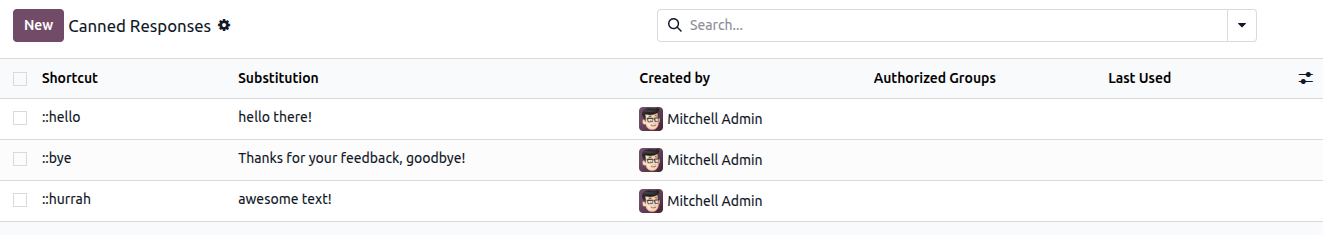
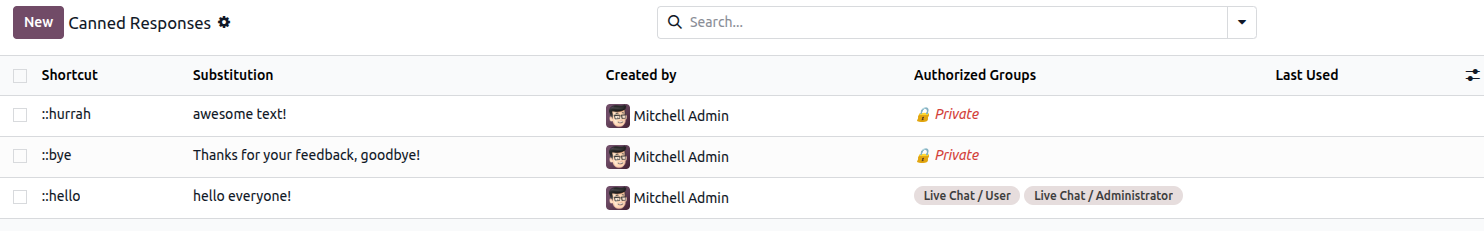
[IMP] Discuss: Canned responses update
Previously, the documentation described that leaving the authorized group field
blank made a canned response private. However, the ui did not display any
explicit indication.

Now, when no group is selected, the ui displays a `lock icon with the label
Private`.

diff --git a/content/applications/productivity/discuss/canned_responses.rst b/content/applications/productivity/discuss/canned_responses.rst
@@ -52,7 +52,7 @@ To :ref:`share <discuss/sharing-responses>` this response with other users, sele
 groups in the :guilabel:`Authorized Group` field that should have access.
 
 .. warning::
-   If the :guilabel:`Authorized Group` field is left blank, the response can **only** be used by the
+   If the :guilabel:`Authorized Group` field is set as :icon:`fa-lock` :guilabel:`Private`, the response can **only** be used by the
    user that created it.
 
    Canned responses created by the database are automatically credited as created by *OdooBot*. They
